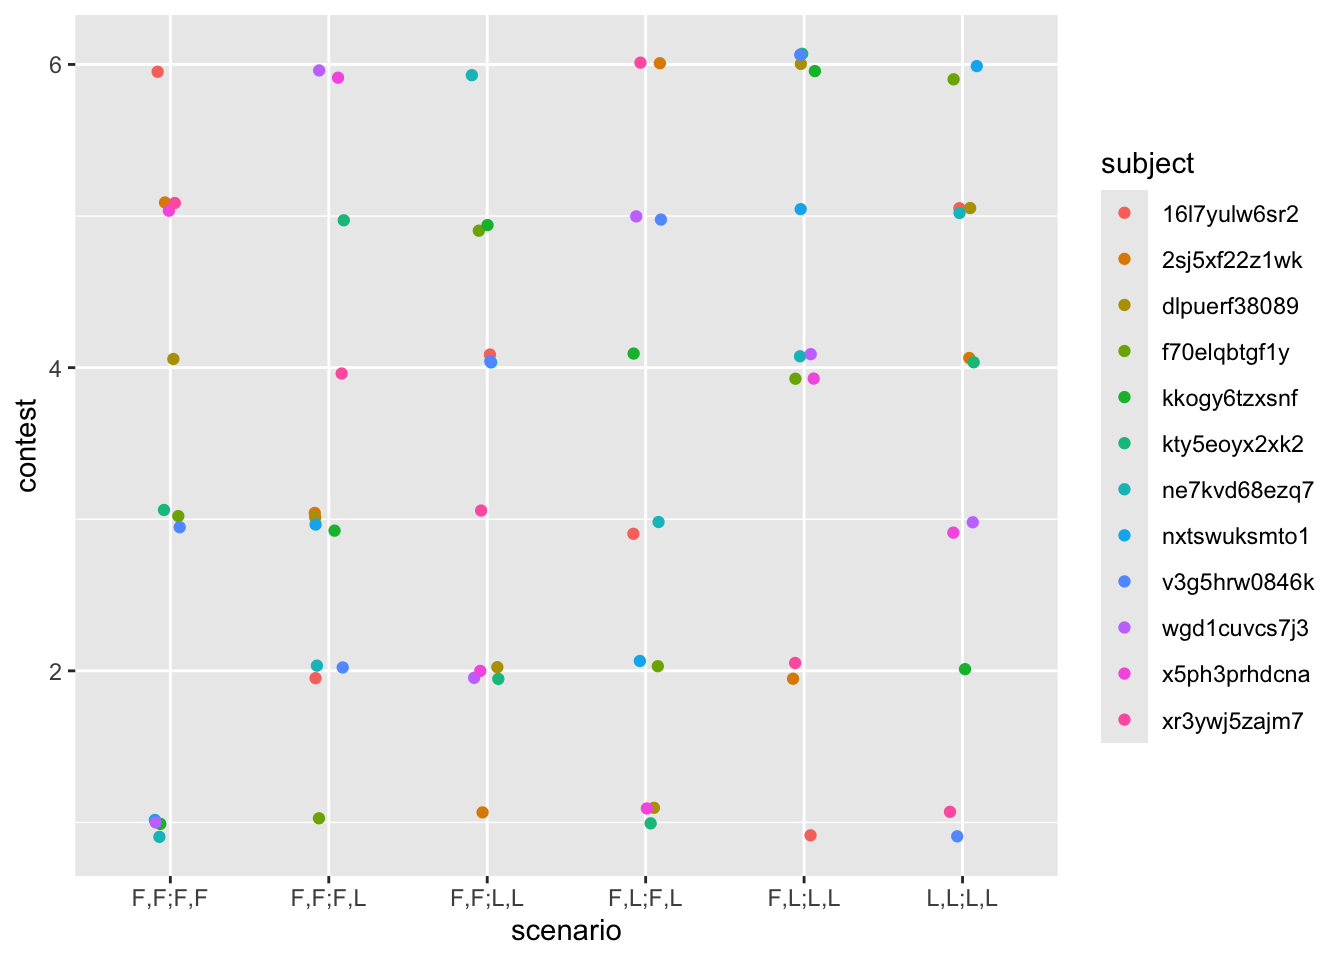
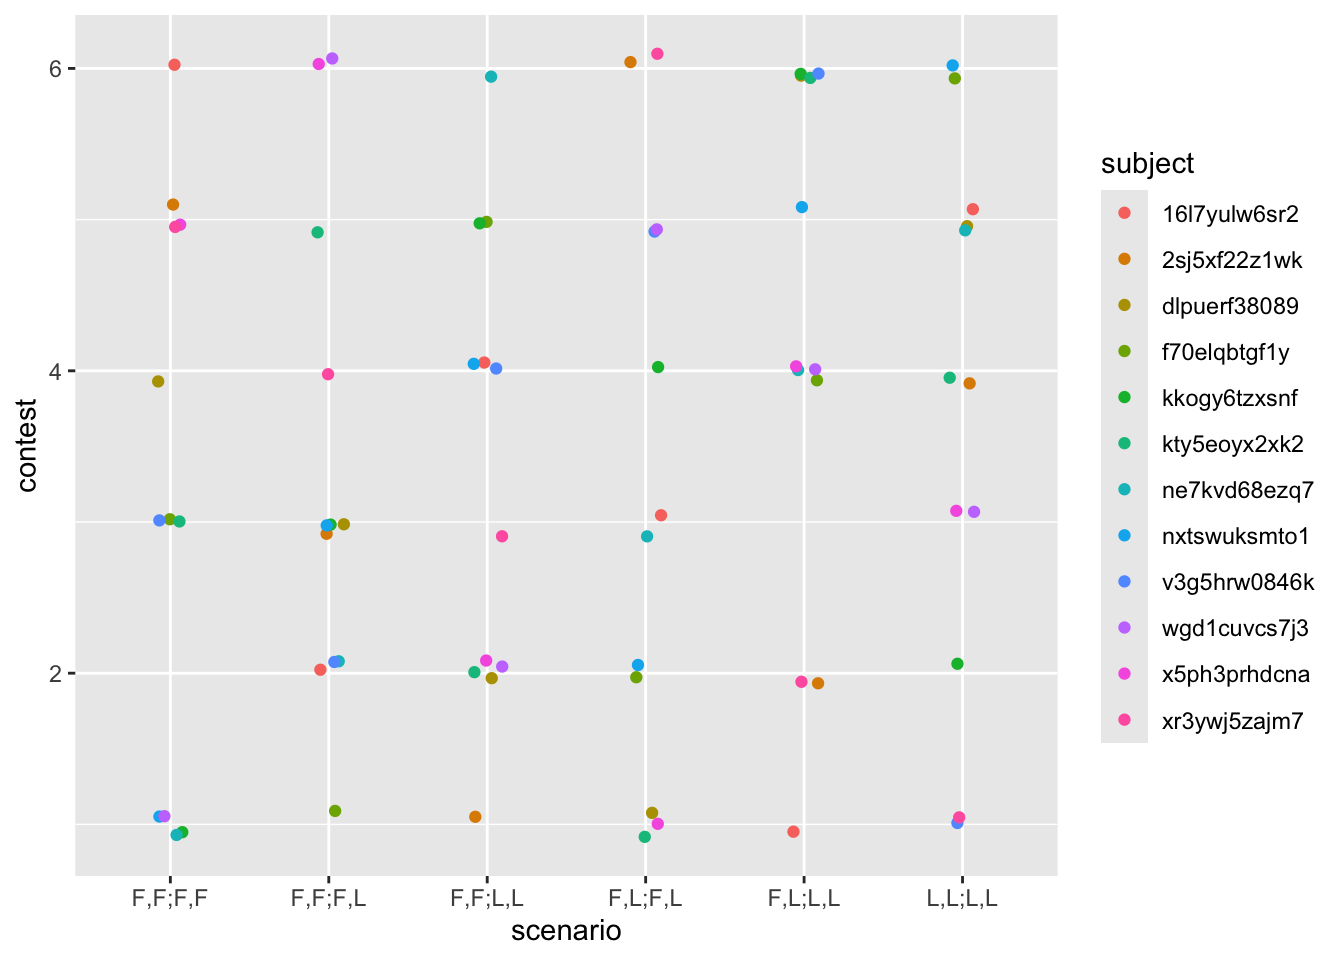
fix writeup render

diff --git a/docs/writeup/index.html b/docs/writeup/index.html
@@ -7,7 +7,7 @@
 <meta name="viewport" content="width=device-width, initial-scale=1.0, user-scalable=yes">
 
 <meta name="author" content="Jacob C. Zimmerman (j2zimmerman@ucsd.edu)">
-<meta name="dcterms.date" content="2025-11-18">
+<meta name="dcterms.date" content="2025-11-19">
 
 <title>Replication of Experiment 1 by Xiang, Vélez &amp; Gershman (2023, JEP:G)</title>
 <style>
@@ -127,7 +127,7 @@ ul.task-list li input[type="checkbox"] {
     <div>
     <div class="quarto-title-meta-heading">Published</div>
     <div class="quarto-title-meta-contents">
-      <p class="date">November 18, 2025</p>
+      <p class="date">November 19, 2025</p>
     </div>
   </div>
   
@@ -357,7 +357,7 @@ Hosted version of this report: <a href="https://psyc-201.github.io/xiang2023/wri
 <tbody>
 <tr class="odd">
 <td><img src="./figure3c.png" class="img-fluid" alt="Figure 3C"><br><img src="./figure3c-legend.png" height="150"><br><br>“Note. … Model simulations averaged over 10 runs. Error bars indicate bootstrapped 95% confidence intervals.” (p.&nbsp;1571)</td>
-<td><img src="./replication-fig3c_behavioral_only.png" class="img-fluid"><br><br>Note. Error bars indicate bootstrapped 95% confidence intervals.</td>
+<td><img src="./replication-fig3c.png" class="img-fluid"><br><br>Note. Error bars indicate bootstrapped 95% confidence intervals.</td>
 </tr>
 </tbody>
 </table>
